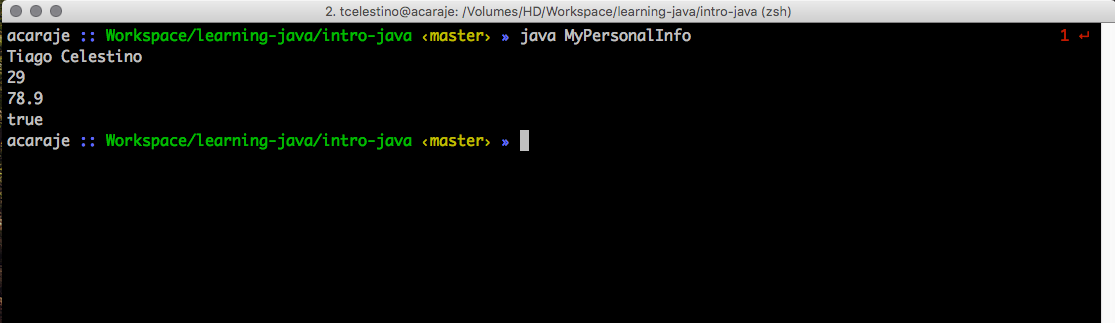
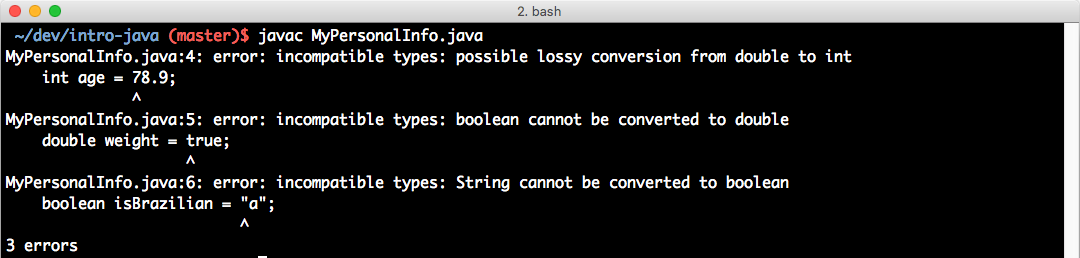
melhorias no texto

diff --git a/src/posts/introducao-ao-java.html.md b/src/posts/introducao-ao-java.html.md
@@ -39,13 +39,13 @@ public class HelloWorld {
 }
 ```
 
-Salve o arquivo como "HelloWorld.java". No terminal digite o seguinte comando:
+Salve o arquivo como *HelloWorld.java*. No terminal digite o seguinte comando:
 
 ```bash
 $ javac HelloWorld.java
 ```
 
-*Explicando:* o comando `javac` irá compilar seu `arquivo.java`, e criar um arquivo chamado `nomeDaClasse.class`, no nosso caso `HelloWorld.class`.
+**Explicando:** o comando *javac* irá compilar seu *nomeClasse.java* e criar um arquivo chamado *nomeClasse.class*, no nosso caso *HelloWorld.class*.
 
 Depois de compilar nosso arquivo, vamos precisar executar o nosso código compilado. Rode o comando:
 
@@ -53,58 +53,97 @@ Depois de compilar nosso arquivo, vamos precisar executar o nosso código compil
 $ java HelloWorld
 ```
 
-*Explicando:* o comando "java" irá executar o nosso arquivo `HelloWorld.class`.
+**Explicando:** o comando *java* irá executar o nosso arquivo compilado.
 
 ![Nossa primeira classe: Hello World!](../images/introducao-ao-java-2.png)
 
-*Nota*
-
-*Todos os exemplos de código que serão usados nos posts, estarão disponíveis [nesse repositório](http://github.com/tcelestino/intro-java)*
+**Nota:** Todos os exemplos de código que serão usados nos posts, estarão disponíveis [nesse repositório](http://github.com/tcelestino/intro-java)
 
 ## Entendendo tipos primitivos
 
-No Java, precisamos sempre definir o tipo das variáveis que não poderá ser modificada em qualquer momento da execução do código. Vou mostrar as mais básicas, sendo elas:
+No Java, precisamos sempre definir o tipo das variáveis que não poderá ser modificada em qualquer momento da execução do código. Existem 8 tipos de dados primitivos (char, boolean, byte, int, short, long, float e double). Vou explicar algumas delas.
 
-  * String - apenas texto
-  * int - número inteiro (Ex.: 5)
-  * double - números flutuante (Ex.: 1.80)
-  * boolean - verdadeiro ou falso
+### int
 
-Vamos colocar na prática como que funciona a tipificação/declaração de variáveis no Java. Crie um arquivo chamado `MyPersonalInfo.java` e adicione o código abaixo:
+Variáveis do tipo *int* armazenam valores inteiros. Além disso, podemos realizar operações matemáticas (somar, subtrair, dividir, multiplicar, etc..) com os valores armazenados. Segue um exemplo:
 
-```Java
-public class MyPersonalInfo {
+```java
+public class ExampleInt {
   public static void main(String[] args) {
-    String myName = "Tiago Celestino";
-    int age = 29;
-    double weight = 80.0;
-    boolean isBrazilian = true;
+    int bornYear = 1987;
+    int actualYear = 2016;
+    int myAge = bornYear - actualYear;
+    int myNewAge = myAge + 1;
 
-    System.out.Println(myName);
-    System.out.Println(age);
-    System.out.Println(weight);
-    System.out.Println(isBrazilian);
+    System.out.println(myAge);
+    System.out.println(myNewAge);
   }
 }
 ```
 
-Compile e execute o código (não esqueça do `javac` e `java`) e o resultado no seu terminal deverá ser esse:
+### double
 
-![Tipos primitivos no Java](../images/introducao-ao-java-3.png)
+Em variavéis do tipo *double*, podemos armazenar valores com pontos flutuantes (Ex.: 1.89) e além desses valores fracionados, o *double* também aceita números inteiros. E assim como nas variáveis do tipo *int* é possível fazer operações matemáticas.
 
-Se você bem notou, todas as variáveis estão declaradas com o seu tipo, ou seja, cada uma está especificamente "rotulada" com o tipo de valores que elas poderão suportar.
+```java
+public class ExampleDouble {
+  public static void main(String[] args) {
+    double dollar = 3.20;
+    double weight = 75;
+    double count = weight / 3;
 
-Agora, se tentarmos adicionar valores que não seja do tipo definido, o que pode acontecer? Vamos alterar nossa classe anterior para ver o acontece.
+    System.out.println(dollar);
+    System.out.println(weight);
+    System.out.println(count);
+  }
+}
+```
+
+**Nota:** assim como o *double*, existe o tipo *float* que também aceita valores fracionados, sendo que a diferença entre eles fica pela quantidade de bytes que cada um pode suportar. No **float** são 4 bytes e no *double* 8 bytes.
+
+### char
+
+Variáveis do tipo *char* apenas podem receber um caractere. Ou seja, você não pode escrever um texto, ou definir um número para ela.
+
+```java
+public class ExampleChar {
+  public static void main(String[] args) {
+    char e = 'e';
+
+    System.out.println(e);
+  }
+}
+```
+
+Vale anotar que variáveis desse tipo não podem receber um valor vazio (Ex.: char d = ''), isso porque um valor vazio não é um caractere.
+
+### boolean
+
+Variáveis do tipo *boolean* apenas possuem dois valores: *true* ou *false*. As palavras *true* e *false*, no Java são palavras reservadas, ou seja, só podem ser usadas em variáveis que são do tipo *boolean*.
+
+```java
+public class ExampleBoolean {
+  public static void main(String[] args) {
+    int myAge = 29;
+    boolean isBrazilian = true;
+    boolean isOldMan = myAge > 50; // expressão booleana
+
+    System.out.println(isBrazilian);
+    System.out.println(isOldMan);
+  }
+}
+```
+
+Agora, se tentarmos adicionar valores que não seja do tipo definido, o que pode acontecer? Vamos criar um arquivo que vamos chamar de *MyPersonalInfo.java* e vamos escrever (pode copiar) o código abaixo:
 
 ```Java
 public class MyPersonalInfo {
   public static void main(String[] args) {
-    String myName = 29;
+    char t = 29;
     int age = 78.9;
     double weight = 29;
-    boolean isBrazilian = "Tiago Celestino";
+    boolean isBrazilian = "e";
 
-    System.out.Println(myName);
     System.out.Println(age);
     System.out.Println(weight);
     System.out.Println(isBrazilian);
@@ -112,14 +151,14 @@ public class MyPersonalInfo {
 }
 ```
 
-Viu o que acontece quando tentou compilar o arquivo?
+Ao tentar compilar o arquivo, provavelmente você verá uma mensagem como a da imagem abaixo:
 
-![Exibe erros ao tentar compilar o código Java](../images/introducao-ao-java-4.png)
+![Exibe erros ao tentar compilar o código Java](../images/introducao-ao-java-3.png)
 
 Isso acontece porque o Java é uma linguagem fortemente tipada, ou seja, toda variável precisa ter um tipo especifico, sendo que após seu tipo ser declarado a variável será até o seu fim do mesmo tipo. Vale lembrar que a tipagem não está restrita apenas a variáveis, mas também aos metódos, mas isso fica para os futuros posts.
 
 Se tiver algo para acrescentar/sugerir, deixe nos comentários e aguardem os próximos posts.
 
-***Fontes***
+***Fonte***
 
-- [Variáveis primitivas e Controle de fluxo](https://www.caelum.com.br/apostila-java-orientacao-objetos/variaveis-primitivas-e-controle-de-fluxo/) - Caelum
+- [Variáveis primitivas e Controle de fluxo](https://www.caelum.com.br/apostila-java-orientacao-objetos/variaveis-primitivas-e-controle-de-fluxo/)
